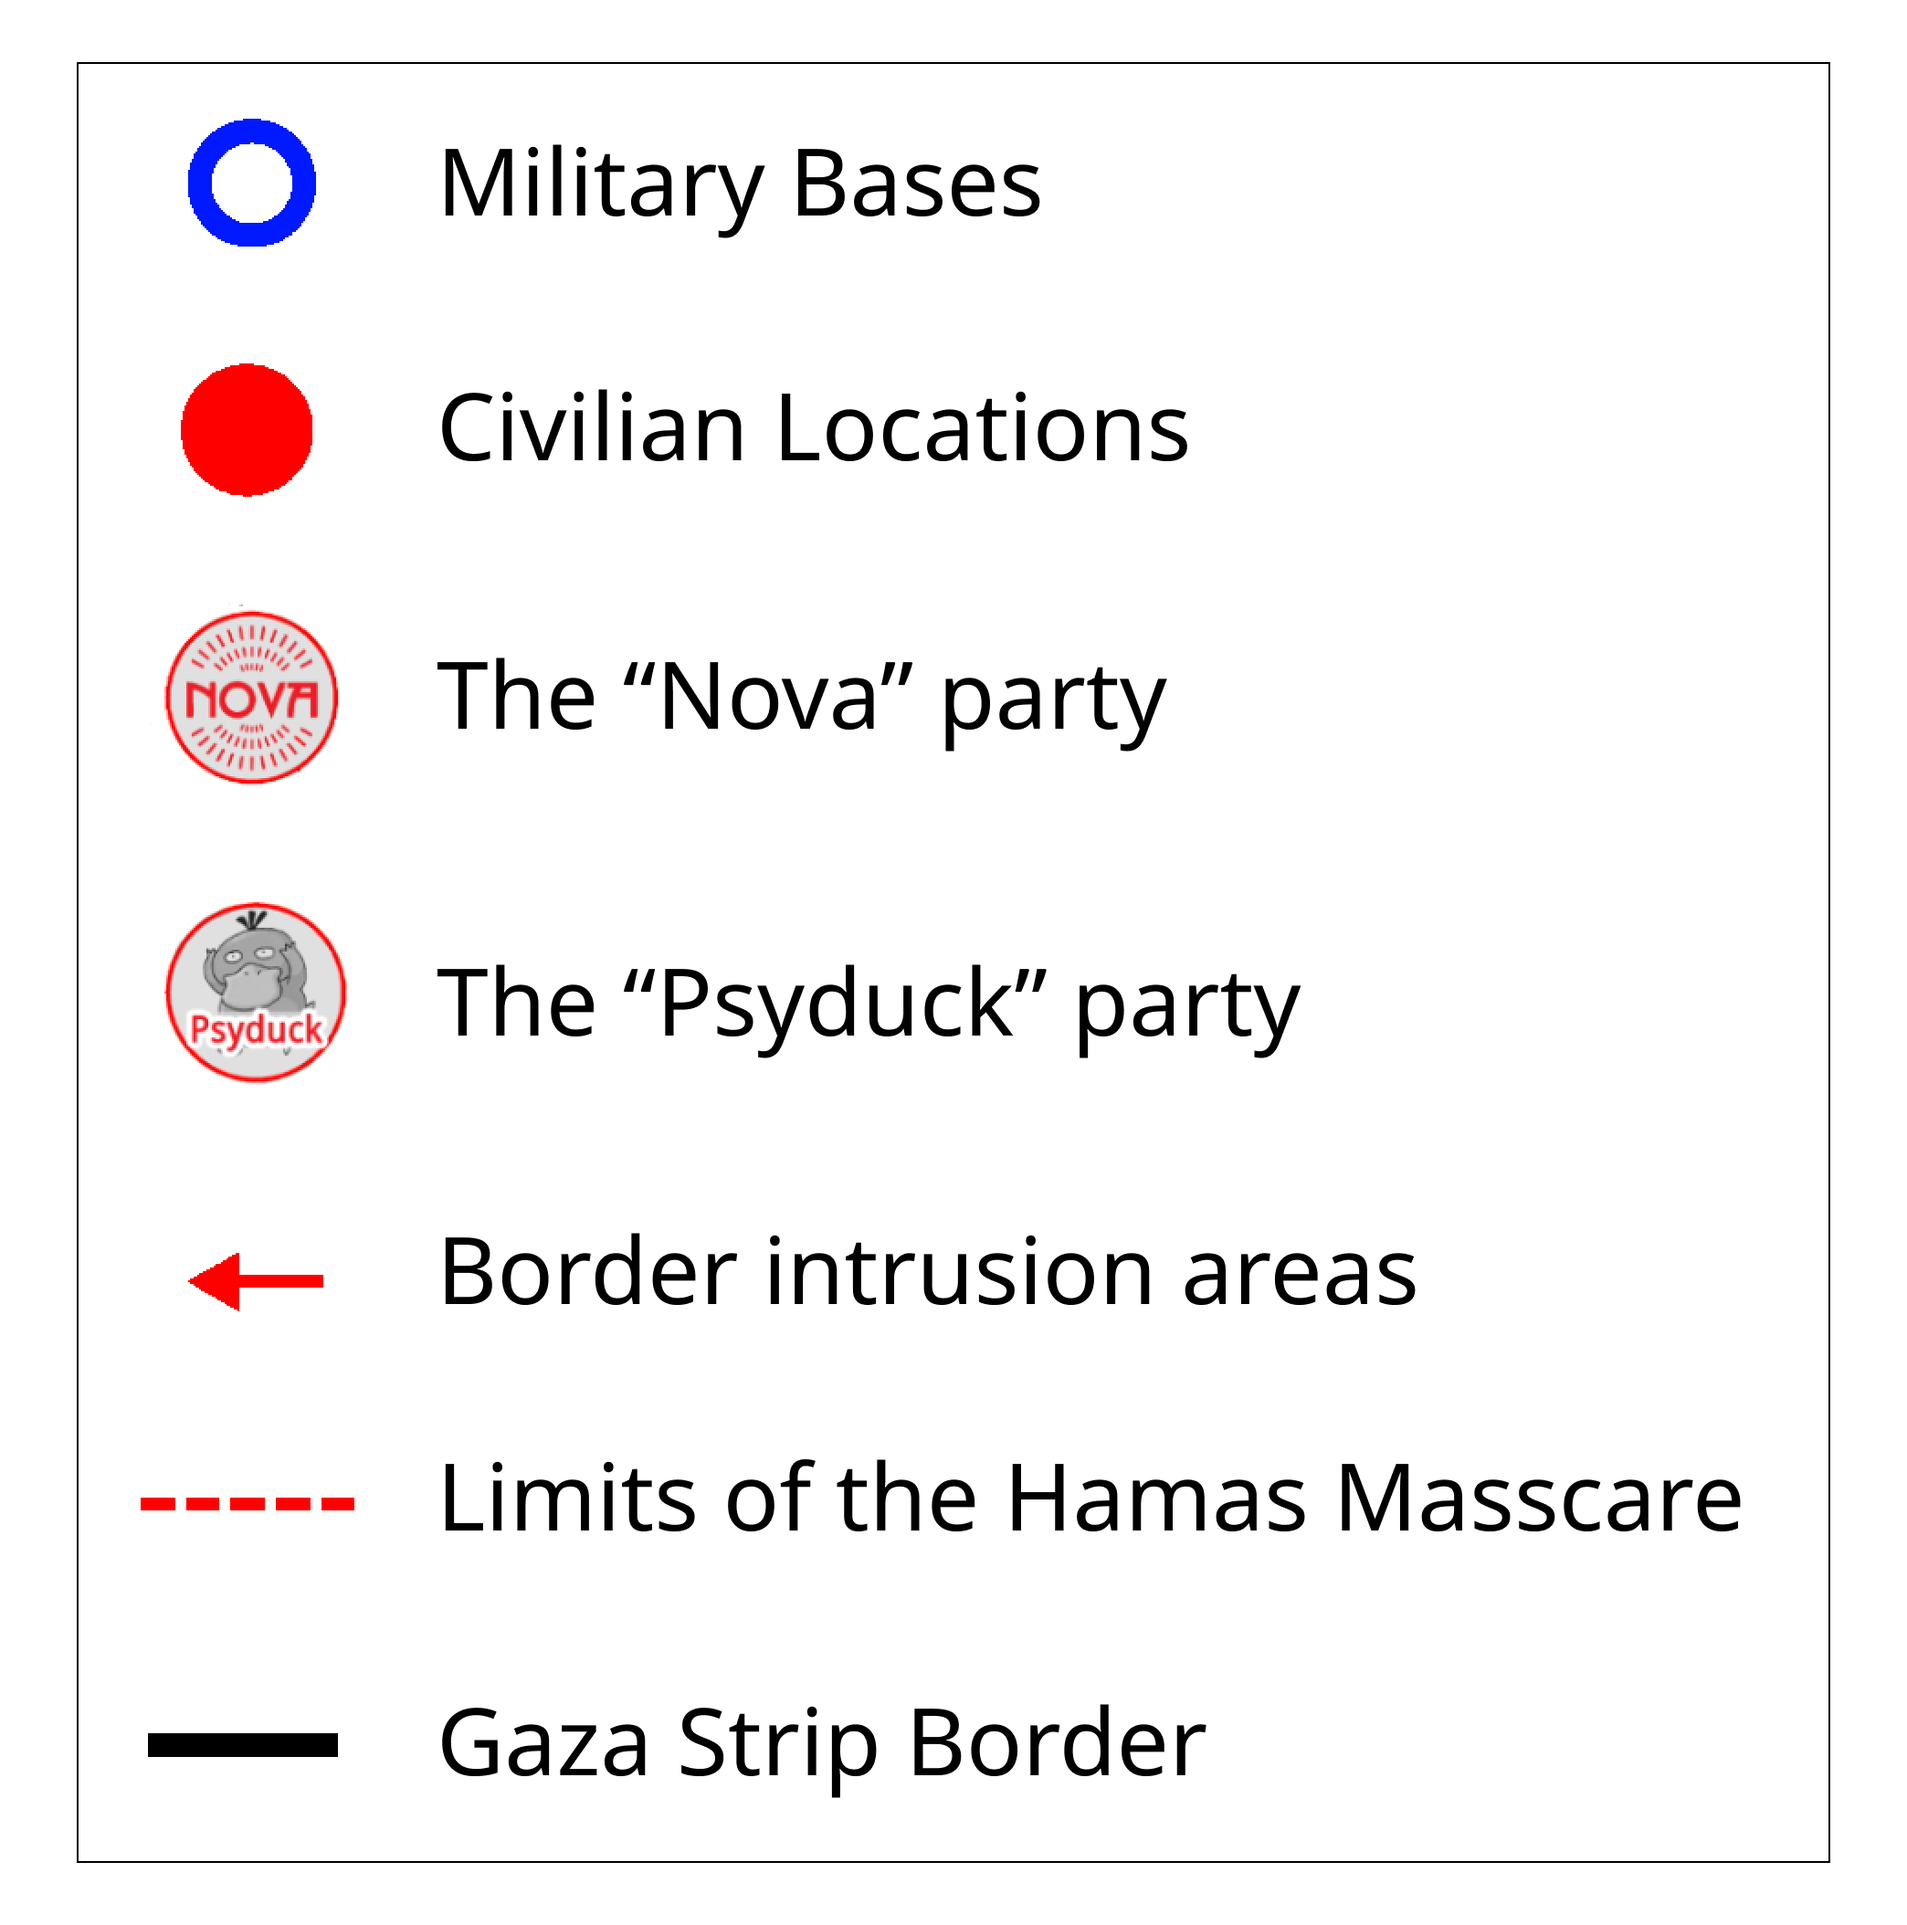
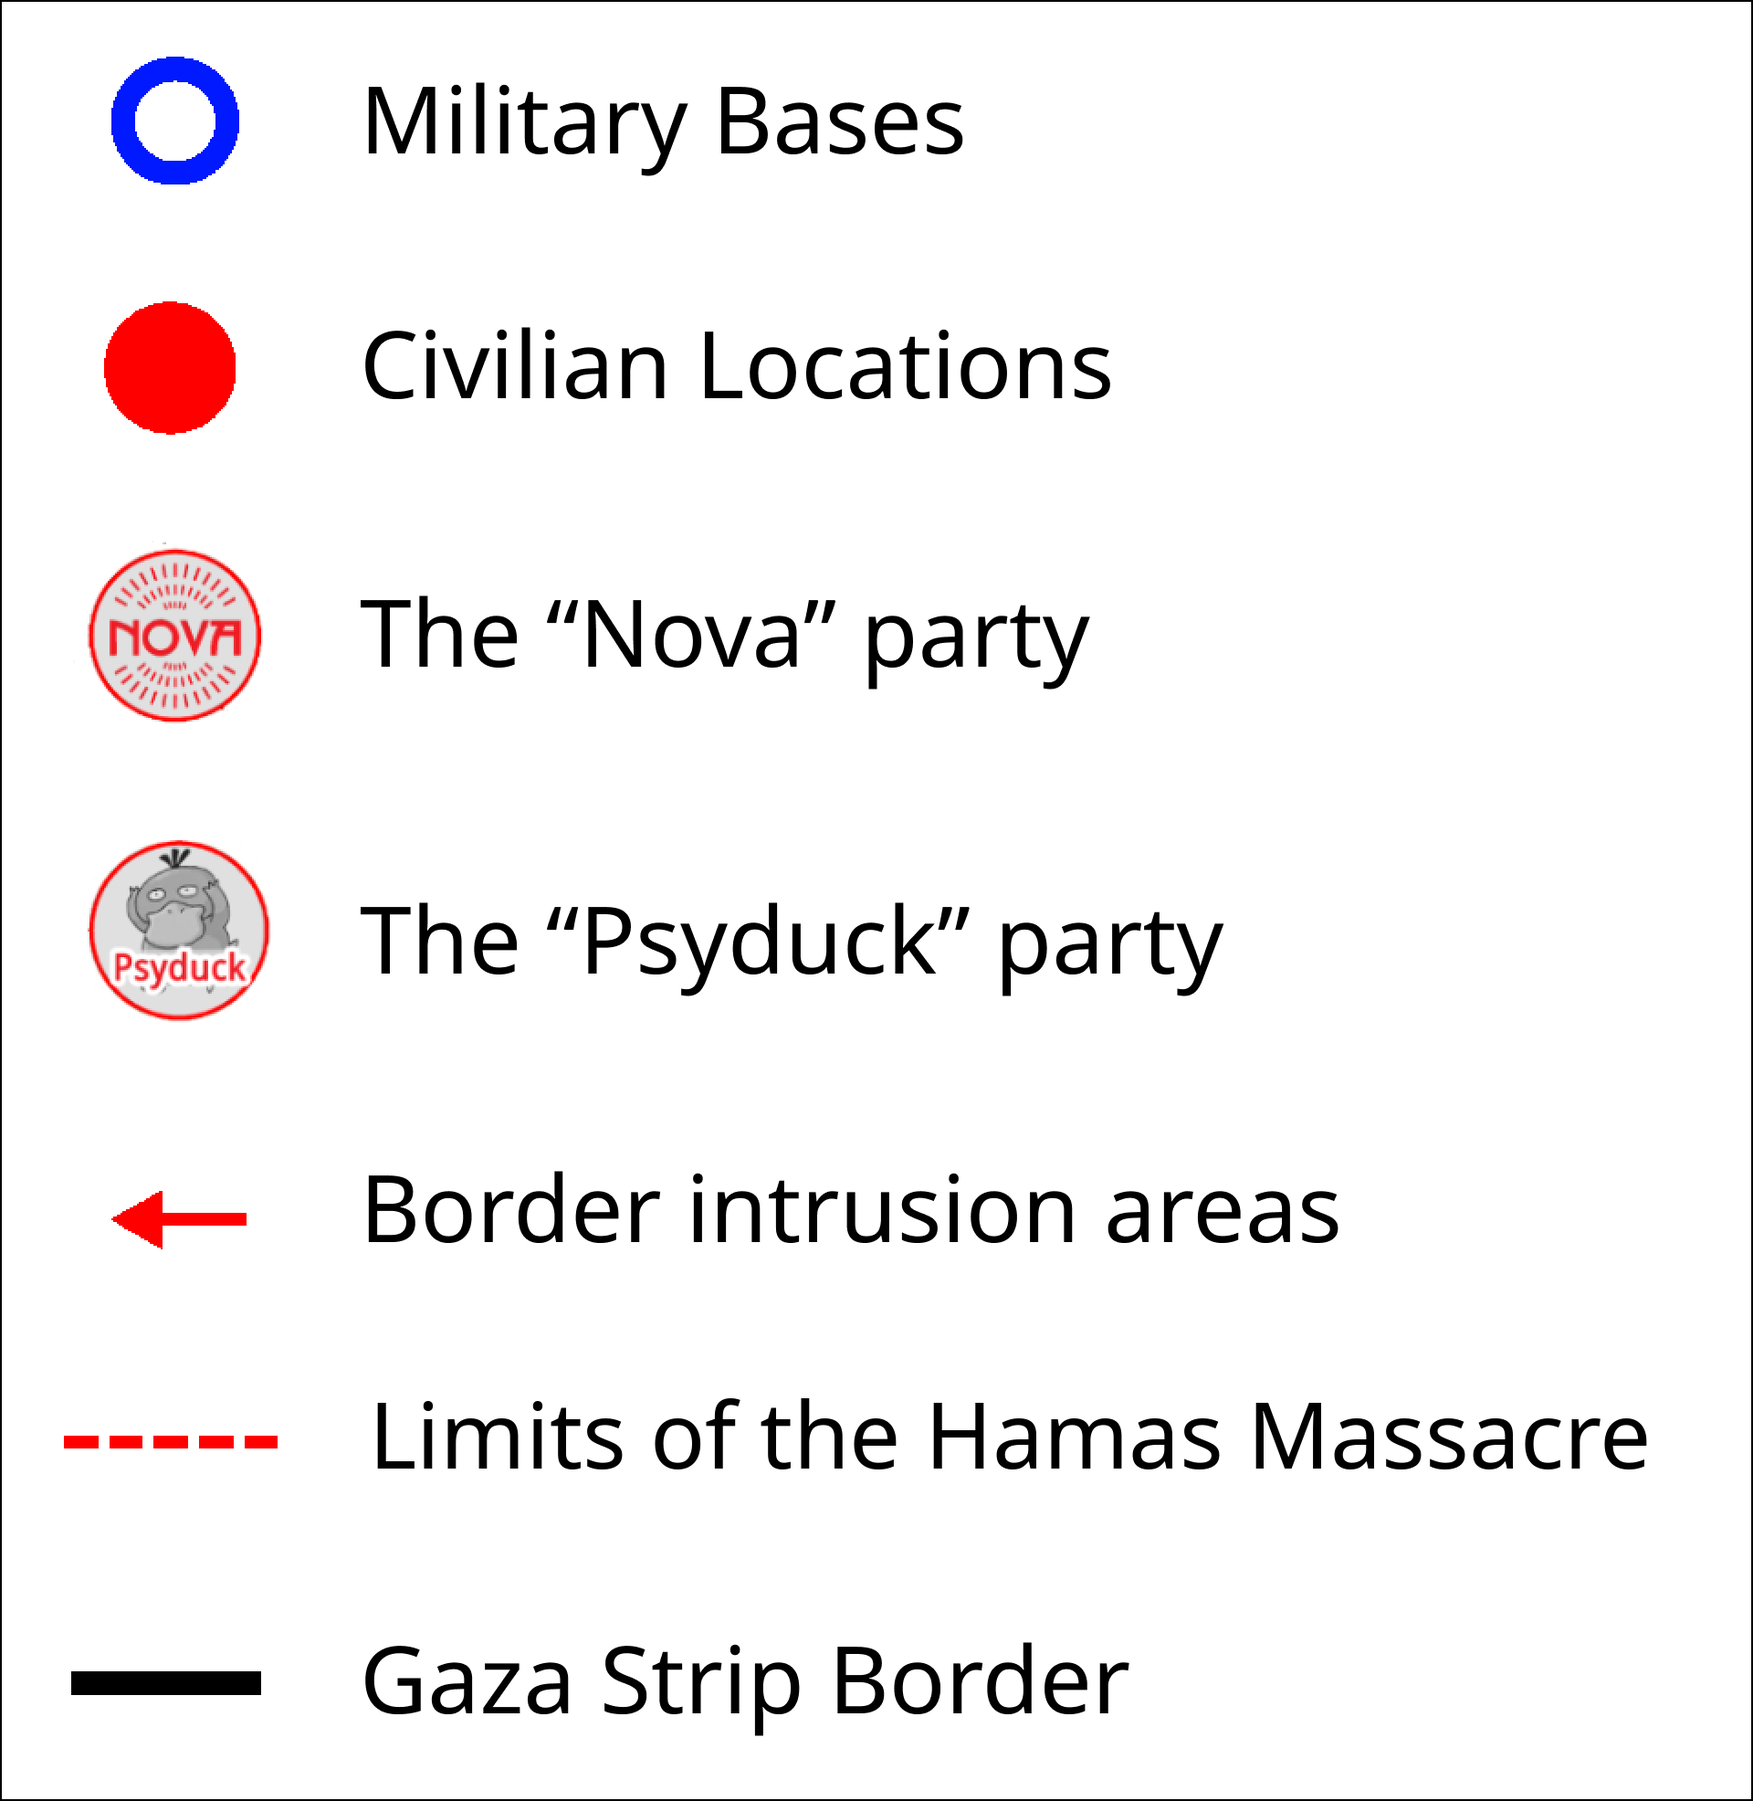
react-preview: legend fixes (typo, size circles, margins), footer box, gender label fix

diff --git a/react-app/src/styles.css b/react-app/src/styles.css
@@ -11,8 +11,8 @@ html,body{height:100%;background:#f0f0f0;font-family:'Noto Sans','Segoe UI',syst
 .notes{margin-top:calc(var(--u)*14);padding-top:calc(var(--u)*6);border-top:1px solid #ddd;width:34%;font-size:calc(var(--u)*11.5);line-height:1.35;white-space:nowrap;border:none}
 .logo{position:absolute;right:1.4%;top:1.5%;width:10.8%;height:auto}
 .mapzone{position:absolute;left:1.4%;top:16.5%;width:97%;height:82%;border:1px solid #aaa;background:#fff}
-.legend{position:absolute;left:2.3%;top:16.9%;width:16.7%;height:auto;opacity:.85;pointer-events:none}
-.sizeleg{position:absolute;left:2.3%;top:37.5%;width:5.5%;background:rgba(255,255,255,.4);font-size:calc(var(--u)*10.5);padding:calc(var(--u)*3);pointer-events:none}
+.legend{position:absolute;left:2.33%;top:17.6%;width:15.36%;height:auto;opacity:.85;pointer-events:none}
+.sizeleg{position:absolute;left:2.33%;top:37.4%;width:5.5%;background:rgba(255,255,255,.4);font-size:calc(var(--u)*10.5);padding:calc(var(--u)*3);pointer-events:none}
 .sizeleg svg{width:100%;display:block}
 .hint{position:absolute;left:27.9%;top:16.7%;color:#fff;font-size:calc(var(--u)*11);padding-top:calc(var(--u)*6);pointer-events:none}
 .card{position:absolute;left:74.86%;width:23.07%;background:rgba(255,255,255,.88);border:1px solid #444;padding:calc(var(--u)*6)}
@@ -26,7 +26,7 @@ html,body{height:100%;background:#f0f0f0;font-family:'Noto Sans','Segoe UI',syst
 .bars{display:flex;align-items:flex-end;gap:2%;height:78%;padding:0 calc(var(--u)*6) 0}
 .bar{flex:1;height:100%;display:flex;flex-direction:column;justify-content:flex-end;align-items:stretch;text-align:center}
 .bf{background:#5f6670;min-height:1px}.bv{font-size:calc(var(--u)*11);color:#222;order:-1;margin-bottom:2px}.bl{font-size:calc(var(--u)*9.5);color:#444;margin-top:2px}
-.foot{position:absolute;left:78.86%;top:84.2%;width:19%;font-size:calc(var(--u)*10);line-height:1.25;color:#333;background:rgba(255,255,255,.8)}
+.foot{position:absolute;left:78.86%;top:84.2%;width:19%;font-size:calc(var(--u)*10);line-height:1.25;color:#222;background:rgba(255,255,255,.88);border:1px solid #444;padding:calc(var(--u)*8) calc(var(--u)*10);box-sizing:border-box}
 .foot a{color:#1a5fb4}
 .mk{display:flex;align-items:center;cursor:pointer;white-space:nowrap}
 .dot{flex:none}
@@ -78,5 +78,7 @@ html,body{height:100%;background:#f0f0f0;font-family:'Noto Sans','Segoe UI',syst
 .src[dir=rtl] .srcbar{justify-content:flex-start}.foot .srcl{color:inherit;text-decoration:underline;cursor:pointer}
 .c-civ{top:17.1%;height:15.5%}.c-gen{top:34.2%;height:15.5%}.c-age{top:51.3%;height:25.3%}
 .bars{height:64%;margin-bottom:calc(var(--u)*34)}.bar{position:relative}
-.bl{position:absolute;top:100%;left:50%;transform:translateX(-50%) rotate(180deg);writing-mode:vertical-rl;white-space:nowrap;margin:0;padding-bottom:2px}
+.bar .bl{position:absolute;top:100%;left:50%;transform:translateX(-50%) rotate(180deg);writing-mode:vertical-rl;white-space:nowrap;margin:0;padding-bottom:2px}
 .mobile .card{margin:14px 6px 0}.mobile .c-civ,.mobile .c-gen,.mobile .c-age{top:auto;height:auto}.mobile .bars{height:130px;margin-bottom:34px}.mobile .c-age{min-height:290px}
+
+.foot a{font-weight:700;text-decoration:underline}

diff --git a/react-app/src/App.tsx b/react-app/src/App.tsx
@@ -119,8 +119,7 @@ export default function App() {
         <div className="mapzone" ref={mapEl} onClick={() => setSel(null)} />
         <img className="legend" src={`${import.meta.env.BASE_URL}assets/legend.png`} alt="" />
         <div className="sizeleg"><span>{'# of victims'}<br />per location</span>
-          <svg viewBox="0 0 60 50">{[[200, 22], [100, 17], [50, 12.5], [5, 5]].map(([n, r]) => <circle key={n} cx="25" cy={44 - r} r={r} fill="none" stroke="#222" strokeWidth=".8" />)}
-            {[[200, 5], [100, 15], [50, 25], [5, 40]].map(([n, y]) => <text key={n} x="49" y={y} fontSize="5" textAnchor="end">{n}</text>)}</svg></div>
+          <svg viewBox="0 0 60 50">{[200, 100, 50, 5].map(n => { const r = diameter(n) / 2 / 1.1833; const y = 44 - 2 * r; return <g key={n}><circle cx="22" cy={44 - r} r={r} fill="none" stroke="#222" strokeWidth=".8" /><line x1="22" y1={y} x2="44" y2={y} stroke="#222" strokeWidth=".4" /><text x="46" y={y + 1.7} fontSize="5">{n}</text></g> })}</svg></div>
         <div className="hint">Click on the map locations to zoom in</div>
         <section className="card c-civ"><h2>Civilian Victims Distribution</h2>
           <div className="dn"><Donut a={s.civilians} b={s.security} /><span className="l tl">Security Forces on Duty<br /><b>{fmt(s.security)}</b> ({pct(s.security, s.total)}%)</span><span className="l br">Civilians<br /><b>{fmt(s.civilians)}</b> ({pct(s.civilians, s.total)}%)</span></div></section>
